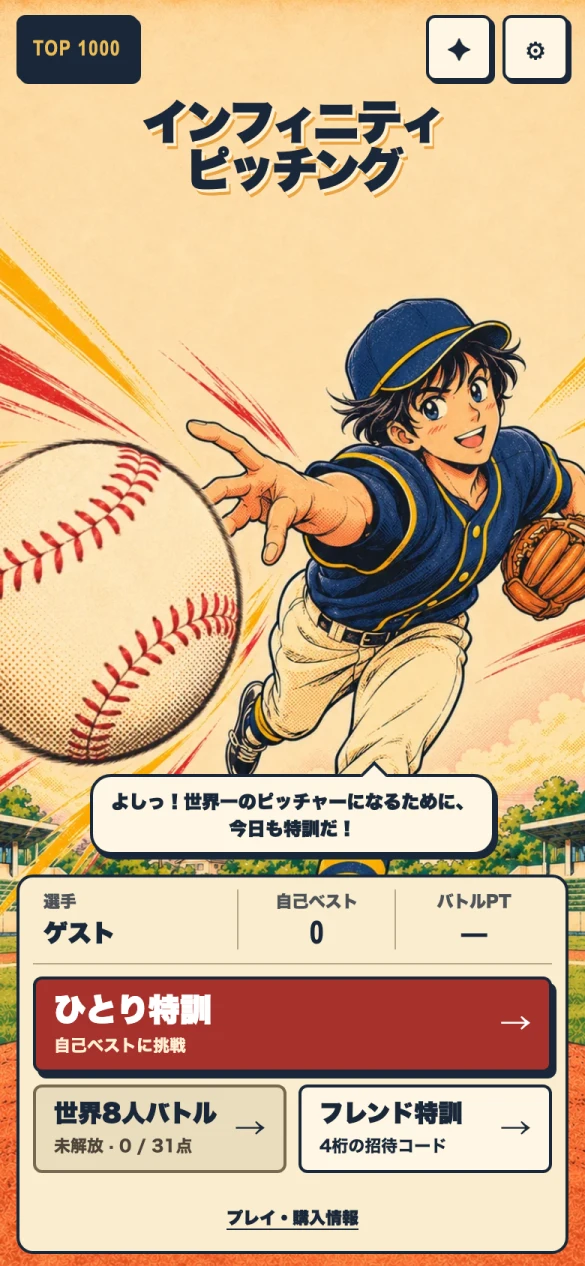
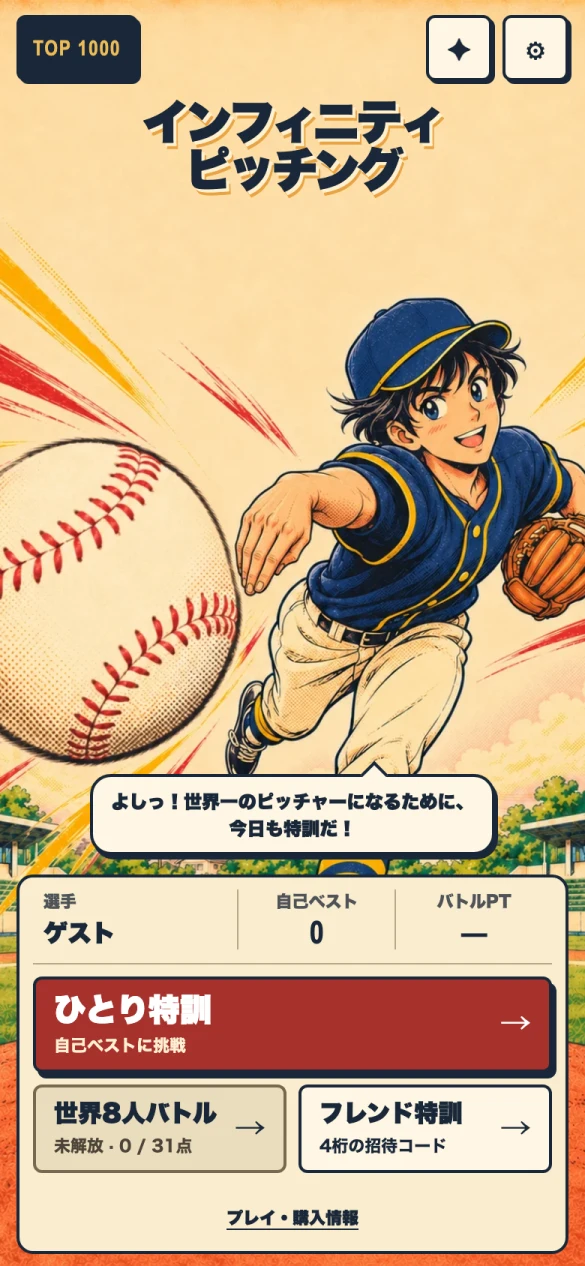
Smooth the right-handed pitching animation and fix the release hand

diff --git a/docs/renewal/menu.js b/docs/renewal/menu.js
@@ -33,7 +33,7 @@ const masthead = document.querySelector('.masthead');
 const format = new Intl.NumberFormat('ja-JP');
 const WORLD_UNLOCK_SCORE = 31;
 const MATCH_SECONDS = 20;
-const PITCH_DURATION_MS = 1480; // Total frame duration of title-pitch.gif.
+const PITCH_DURATION_MS = 1620; // Total frame duration of title-pitch.gif.
 const title = '<span>インフィニティ</span><span>ピッチング</span>';
 let player = { ...scenarios.new };
 let page;
@@ -282,6 +282,7 @@ function playPitch() {
   const animation = new Image();
   animation.className = 'scene-art';
   animation.alt = '';
+  animation.fetchPriority = 'high';
   const finish = () => {
     if (scene.isConnected) navigate('home');
   };

diff --git a/docs/renewal/menu.html b/docs/renewal/menu.html
@@ -5,7 +5,7 @@
   <meta name="viewport" content="width=device-width, initial-scale=1, viewport-fit=cover">
   <title>インフィニティピッチング · 타이틀 시안</title>
   <link rel="stylesheet" href="menu.css">
-  <link rel="preload" href="assets/title-pitch.gif" as="image">
+  <link rel="preload" href="assets/title-pitch.gif" as="image" fetchpriority="low">
   <link rel="preload" href="assets/title-pitch-finish.webp" as="image">
   <script src="menu.js" defer></script>
 </head>

diff --git a/docs/renewal/README.md b/docs/renewal/README.md
@@ -9,8 +9,8 @@
 ## 타이틀에서 메인 메뉴로
 
 1. 9:16 오프닝에 마운드에 선 투수의 전신과 일본어 타이틀 **インフィニティピッチング**을 보여준다.
-2. ‘スタート’를 누르면 같은 투수가 무릎을 들고, 발을 내딛고, 공을 던진다. 투구 GIF는 6컷, 1.48초이며 한 번 재생한다.
-3. 화면 앞까지 다가온 공과 투수의 마지막 자세를 고정한다. 좌상단에 **TOP 1000**, 우상단에 **컬렉션·설정**, 가운데에 기존 말풍선을 띄운다. 하단에는 선수 기록, 세 게임 모드와 플레이·구매 정보를 표시한다.
+2. ‘スタート’를 누르면 오른손 투수가 오른발을 축으로 왼무릎을 들고, 왼발을 내디딘 뒤 오른손으로 던진다. 준비·발 디디기·릴리스 사이에 중간 프레임을 넣었다. 투구 GIF는 30프레임, 1.62초이며 한 번 재생한다.
+3. 화면 앞까지 다가온 공과 투수의 마지막 자세를 고정한다. 공을 놓은 오른손은 손가락을 모으고 손목을 자연스럽게 아래로 향하게 한다. 좌상단에 **TOP 1000**, 우상단에 **컬렉션·설정**, 가운데에 기존 말풍선을 띄운다. 하단에는 선수 기록, 세 게임 모드와 플레이·구매 정보를 표시한다.
 
 > よしっ！世界一のピッチャーになるために、<br>
 > 今日も特訓だ！
@@ -69,6 +69,18 @@ A/B/C는 서로 다른 브랜드 후보가 아니라 같은 캐릭터와 인쇄 
 ## 이미지 제작 기록
 
 내장 ImageGen을 사용했다. 아래는 시안에 적용한 프롬프트다.
+
+**오른손 투구의 왼무릎 들기**
+
+Use case: illustration-story. Four close sequential KEYFRAMES in one exact 2 by 2 grid; full-bleed 9:16 overall portrait, each quadrant an equally sized uninterrupted vertical 9:16 work, straight midpoint cut with no gutters or dividing lines, no writing or numbering. The input is the precise approved baseball pitcher identity, front three-quarter staging camera, outfit, palette and stadium background. Manually animate a RIGHT-HANDED pitch preparation. Same young, softly androgynous 15–16-year-old player and face as reference, navy cap/jersey and mustard piping, ivory pants and blue stirrups. Fixed camera tripod and field horizon, pitcher same size and head vertical position, full body centered with roomy edges and clean silhouette, two arms and two legs only. CONSISTENT ANATOMY IN ALL FOUR: the left hand of the pitcher (on the VIEWER'S RIGHT when facing us) wears the brown glove. Right hand (VIEWER'S LEFT when front facing) owns white baseball. The RIGHT leg is the support leg, its right cleat stays at the SAME spot slightly LEFT OF FRAME CENTER in every quadrant, aligned under the right hip. Only the player's LEFT foot on the VIEWER'S RIGHT ever lifts and bends toward their left hip during this sequence. Use tiny sequential pose differences and maintain camera alignment like production animation cels: TOP LEFT—arms gather together at chest, both feet just on ground, left heel starting to peel off; TOP RIGHT—left foot now slightly off the ground and left knee flexed at shin height, right leg vertical and firmly planted; BOTTOM LEFT—left knee higher just BELOW waist, lift unmistakably on right side of image, glove and hands together; BOTTOM RIGHT—left knee lifted to waist, left boot hangs off ground entirely, right leg supports at unchanged spot, with slight shoulder coil. Keep all backgrounds nearly identical to the reference, no speed strokes or added camera movement. Quiet cream sky, bleachers, green grass and terracotta. Vintage inked Showa sports comic contours, same clean screen printing, youthful expression. No text, lettering, marks, watermarks, no borders, no extra hands or feet.
+
+**왼발 착지와 오른손 릴리스**
+
+Use case: illustration-story. A four-keyframe animation sheet arranged as an exact 2 by 2 grid without gutters, border or lines; all four panels are seamless upright 9:16 portrait artworks, whole image 9:16 portrait, straight center cut boundaries. Use input 1 as exact youthful high-school player and consistent camera/field reference plus input 2 as rough old staging only. Draw a subtle progressive RIGHT-HANDED pitch from the top of the leg kick to the exact moment after the ball leaves the hand. Same young, softly androgynous face, blue cap and dark navy jersey with mustard piping, cream pants and blue socks, in same daylight field and terracotta mound. Locked camera and horizon, same player centered, unobstructed head to cleats, no changing viewpoint. Front-facing three-quarter angle. Their LEFT hand, at viewer right, wears the brown glove for all four poses. Their RIGHT hand, which originates on viewer left, throws. Right leg, on viewer left, has supported the weight; the left leg (toward viewer right) has lifted and now moves ahead to plant. TOP LEFT: lifted left knee begins to descend toward viewer right, right foot stays planted on viewer left, chest-level hands start to separate. TOP RIGHT: left foot strides and almost touches ground to viewer right; right throwing hand holds a small white baseball behind and above shoulder on viewer left, glove leads on viewer right. BOTTOM LEFT: left foot FIRMLY planted to viewer right, right rear foot on viewer left begins to roll forward; throwing elbow and right hand move overhand up and forward toward the camera, shoulder and hips rotate naturally; ball is still held by right fingertips. BOTTOM RIGHT: right arm comes forward, ball is released and clearly separated from right fingertips, left foot still planted to viewer right, right heel lifts behind body at viewer left. Right throwing hand after release has a relaxed accurate shape, one thumb and four fingers. Minimal differences in scale or framing between frames. Screen-printed Showa sports manga, paper grain and Ben-Day dots just like first input, warm bright friendly tone. The design is NOT a diagram; do not insert text, symbols, labels, typography, borders, arrows, signs, watermarks, or additional limbs.
+
+**고정 컷의 오른손과 손목 수정**
+
+Use case: precise-object-edit. The input is the complete portrait target frame. Preserve the same layout, centered cheerful young baseball pitcher, face, uniform, cap, colors, the large already-flying ball in the left foreground, speedlines and baseball field. Make one targeted correction to the non-gloved THROWING RIGHT HAND AND WRIST, which appears on the left side of the image just behind the airborne ball. Redraw this one hand from scratch as a clearly human right hand, with an ordinary anatomically accurate right wrist continuous with the existing forearm. Natural overhand pitching follow-through just after release: the forearm has pronated, the wrist and fingertips point diagonally downward, and ALL FOUR fingers relax close together in a smooth compact curve, plus one much shorter opposable thumb tucked naturally beside the index. Five digits total, based on a real athletic reference, clean silhouettes, correct finger lengths, consecutive index, middle, ring, little finger knuckles, natural joints, no claw or unnatural fanning, no extra or fused digits, no look of holding the ball. Prefer a slightly turned, mostly back-of-hand view with carefully drawn four natural dorsal knuckles and one modest thumb. Keep it clear at phone size and proportionate to the player, the baseball is the main foreshortened object. Keep the player's LEFT SKINLESS/covered hand inside the existing glove on the right side of the image. Preserve every other element. Same seamless 9:16 portrait. No text, labels, signs, or watermarks.
 
 **투구 GIF 중간 자세**
 
